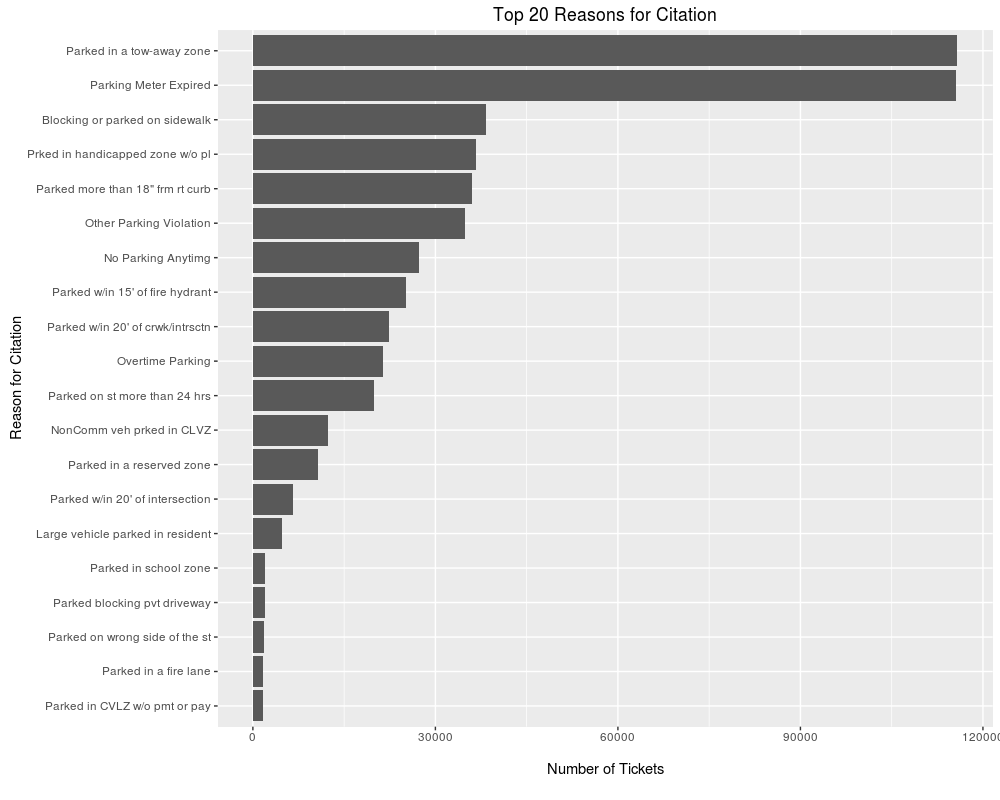
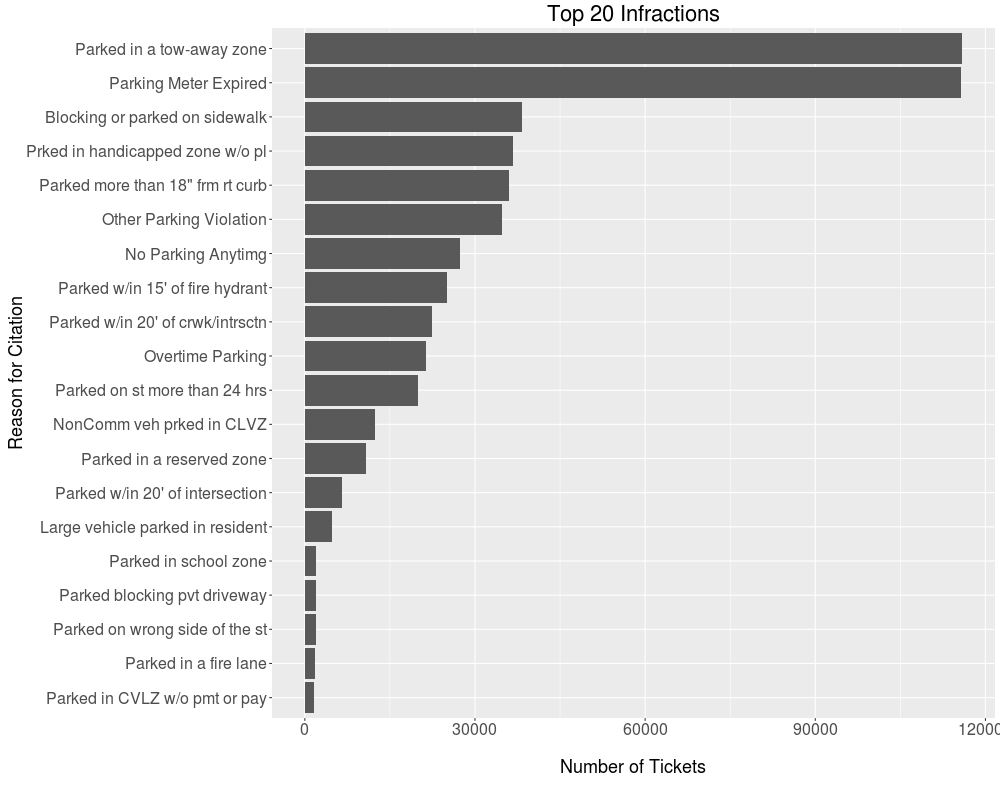
Fixed top citations and some wording.

diff --git a/README.md b/README.md
@@ -9,13 +9,13 @@ A second round of analysis was subsequently performed using a new version of the
 
 Without further ado, let's take a look at some analysis of the data!
 
-###Reasons for Citation
-It behooves us to begin with an examination of what the most common reasons are for folk in Houston to receive a ticket. The following chart shows the top 30 reasons for citation, the most common of which are parking in a tow-away zone, and parking at an expired meter.
+###Reason for Citation (Infractions)
+It behooves us to begin with an examination of what the most common reasons are for folk in Houston to receive a ticket. The following chart shows the top 20 infractions, the most common of which are parking in a tow-away zone, and parking at an expired meter.
 
 ![Top reasons for citation](https://raw.githubusercontent.com/jpoles1/HOUTix/master/top_citations.png)
 
 ###Tickets by Location
-Using [ggmap](http://journal.r-project.org/archive/2013-1/kahle-wickham.pdf), and the positional information provided in the updated dataset, we can examine the locations where tickets were most frequently assigned. The below map has the density of parking tickets overlaid, with green representing few tickets, and red indicating a large number of tickets were assigned in the area. This analysis indicates that there are several ticketing hotspots in Houston including the Downtown and Montrose areas, as well as the Rice Village and Medical Center area. 
+Using [ggmap](http://journal.r-project.org/archive/2013-1/kahle-wickham.pdf), and the positional information provided in the updated dataset, we can examine the locations where tickets were most frequently assigned. The below map has the density of parking tickets overlaid, with green representing few tickets, and red indicating a large number of tickets were assigned in the area. This analysis indicates that there are several ticketing hotspots in Houston including the Downtown, Montrose, and Rice Village areas.
 
 ![Ticket map](https://raw.githubusercontent.com/jpoles1/HOUTix/master/GeoAnalysis/ticket_density.png)
 
